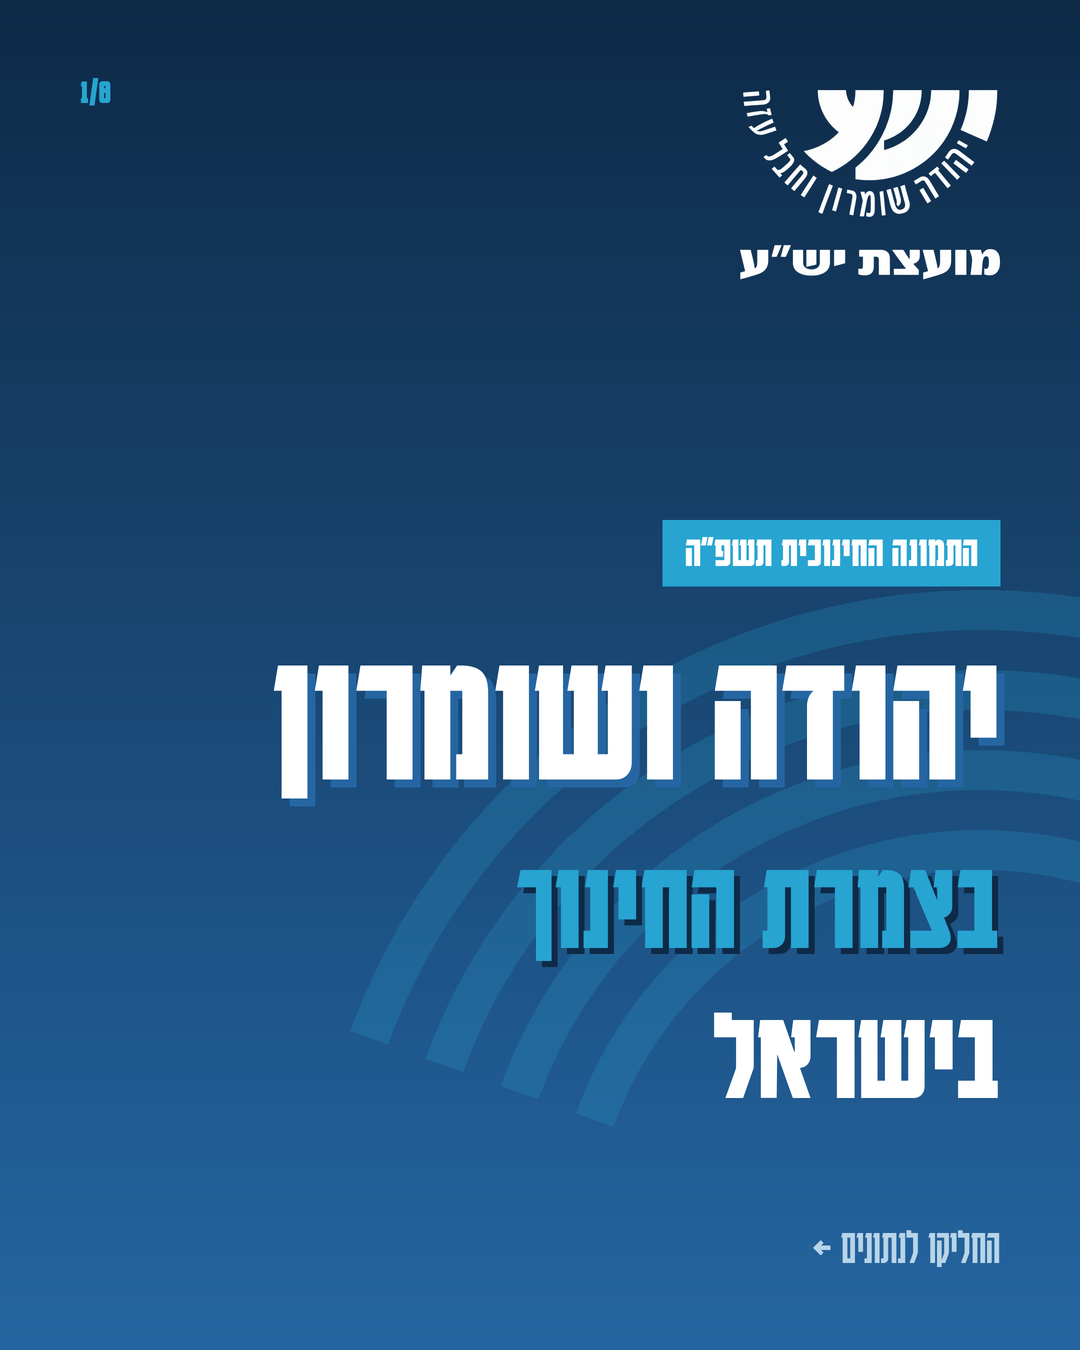
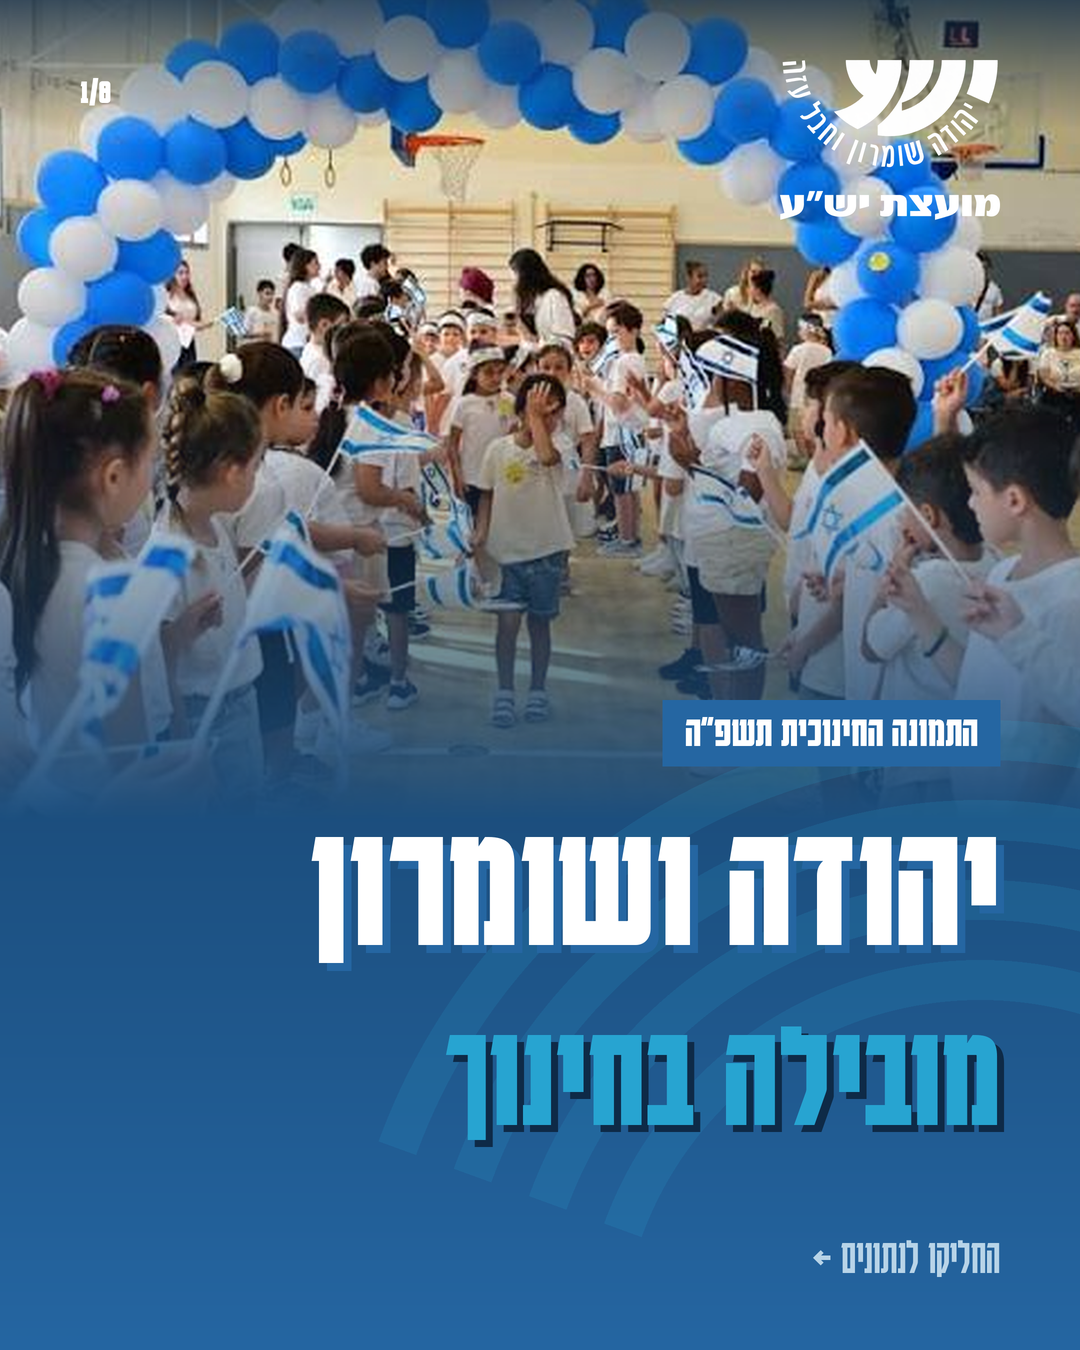
Add photos to Yesha carousel cover, Efrat and Shomron slides
Claude-Session: https://claude.ai/code/session_01RS3QK6pAd3YhyAuXZSJjH1

diff --git a/content-kit/yesha/2026-10-education-carousel-v2/make.py b/content-kit/yesha/2026-10-education-carousel-v2/make.py
@@ -72,14 +72,52 @@ def logo(img, w, x_right, y, plate):
     return h
 
 
-def chrome(img, n, dark, source=None):
+def chrome(img, n, dark, source=None, on_photo=False):
     d = ImageDraw.Draw(img)
-    logo(img, 150 if dark else 170, W - M, 62, plate=dark)
-    text(d, (M, 72), f'{n}/{TOTAL}', 36, LB if dark else MID, anchor='la', rtl=False)
+    logo(img, 150 if (dark or on_photo) else 170, W - M, 62, plate=dark or on_photo)
+    text(d, (M, 72), f'{n}/{TOTAL}', 36, WHITE if on_photo else (LB if dark else MID), anchor='la', rtl=False)
     if source:
         d.rectangle(P(M, H - 104, W - M, H - 102), fill=(0x4A, 0x6E, 0x94) if dark else (0xC9, 0xDB, 0xE8))
         text(d, (W - M, H - 84), source, 30, SOFT if dark else BLUE, bold=False)
     return d
+
+
+UP = '/root/.claude/uploads/1a5819ee-0cc0-5045-b086-4a8a80216453/'
+PHOTO_COVER = UP + '9dadb569-image.jpg'
+PHOTO_EFRAT = UP + '6168c27e-image.jpg'
+PHOTO_SHOMRON = UP + '76ebff00-image.jpg'
+
+
+def bg_at(y):
+    """Colour of the dark slide gradient at height y, so photos fade into it seamlessly."""
+    t = y / H
+    return tuple(int(DEEP[i] + (BLUE[i] - DEEP[i]) * t) for i in range(3))
+
+
+def photo(img, path, h, focus_y, fade_to, fade_from=0.55, caption=None, top_dark=150):
+    """Cover-crop a photo into the top band (W x h) and fade its bottom into the slide colour."""
+    ph = Image.open(path).convert('RGB')
+    sc = max(W * S / ph.width, h * S / ph.height)
+    ph = ph.resize((round(ph.width * sc), round(ph.height * sc)), Image.LANCZOS)
+    top = int(min(max(focus_y * ph.height - h * S / 2, 0), ph.height - h * S))
+    left = (ph.width - W * S) // 2
+    ph = ph.crop((left, top, left + W * S, top + int(h * S)))
+    img.paste(ph, (0, 0))
+    ov = Image.new('RGBA', (W * S, int(h * S)), (0, 0, 0, 0)); od = ImageDraw.Draw(ov)
+    for y in range(int(h * S)):
+        t = y / (h * S)
+        a_top = int(top_dark * max(0, 1 - t / (130 / h)))                       # keeps logo/counter legible
+        a_bot = int(255 * max(0, (t - fade_from) / (1 - fade_from)) ** 1.1)
+        col = bg_at(y / S) if fade_to is None else fade_to
+        if a_top: od.line([(0, y), (W * S, y)], fill=DEEP + (a_top,))
+        if a_bot: od.line([(0, y), (W * S, y)], fill=col + (a_bot,))
+    img.paste(ov, (0, 0), ov)
+    if caption:
+        d = ImageDraw.Draw(img)
+        w = tw(d, caption, 34)
+        y = h * fade_from - 20
+        d.rounded_rectangle(P(W - M - w - 36, y, W - M, y + 54), radius=27 * S, fill=NAVY)
+        text(d, (W - M - 18, y + 9), caption, 34, WHITE)
 
 
 def tag(d, y, s, size=42, bg=BLUE):
@@ -123,16 +161,17 @@ def save(img, n):
 
 # 1 — cover
 def s1():
-    img = canvas(True); arcs(img, 980, 1260, alpha=55, n=4, r0=430, step=80, width=40)
+    img = canvas(True)
+    photo(img, PHOTO_COVER, 820, 0.5, None, fade_from=0.42, top_dark=200)
+    arcs(img, 980, 1360, alpha=40, n=4, r0=400, step=80, width=40)  # drawn over the fade, no seam
     d = ImageDraw.Draw(img)
-    logo(img, 260, W - M, 90, plate=True)
-    text(d, (M, 72), f'1/{TOTAL}', 36, LB, anchor='la', rtl=False)
-    y = 520
-    h = tag(d, y, 'התמונה החינוכית תשפ״ה', 44, bg=LB)
-    text(d, (W - M, y + h + 30), 'יהודה ושומרון', 190, WHITE, shadow=(8, 8, BLUE))
-    text(d, (W - M, y + h + 250), 'בצמרת החינוך', 130, LB, shadow=(6, 6, DEEP))
-    text(d, (W - M, y + h + 400), 'בישראל', 130, WHITE)
-    text(d, (W - M, H - 130), 'החליקו לנתונים ←', 50, SOFT, bold=False)
+    logo(img, 220, W - M, 60, plate=True)
+    text(d, (M, 72), f'1/{TOTAL}', 36, WHITE, anchor='la', rtl=False)
+    y = 700
+    h = tag(d, y, 'התמונה החינוכית תשפ״ה', 44, bg=BLUE)
+    text(d, (W - M, y + h + 24), 'יהודה ושומרון', 180, WHITE, shadow=(8, 8, BLUE))
+    text(d, (W - M, y + h + 230), 'מובילה בחינוך', 150, LB, shadow=(7, 7, DEEP))
+    text(d, (W - M, H - 120), 'החליקו לנתונים ←', 50, SOFT, bold=False)
     save(img, 1)
 
 
@@ -162,19 +201,21 @@ def s3():
 
 # 4 — 5 units math & English
 def s4():
-    img = canvas(False); d = chrome(img, 4, False, SRC_EDU)
-    tag(d, 250, '5 יחידות לימוד', 42)
-    text(d, (W - M, 335), 'מובילים ב־5 יחידות', 104, NAVY)
+    img = canvas(False)
+    photo(img, PHOTO_EFRAT, 440, 0.0, ICE, fade_from=0.74, caption='אפרת', top_dark=170)
+    d = chrome(img, 4, False, SRC_EDU, on_photo=True)
+    tag(d, 428, '5 יחידות לימוד', 40)
+    text(d, (W - M, 488), 'מובילים ב־5 יחידות', 92, NAVY)
 
     def section(y, title):
-        text(d, (W - M, y), title, 60, BLUE)
-        d.rectangle(P(M, y + 40, W - M - tw(d, title, 60) - 24, y + 43), fill=(0xB5, 0xCF, 0xE3))
+        text(d, (W - M, y), title, 56, BLUE)
+        d.rectangle(P(M, y + 38, W - M - tw(d, title, 56) - 24, y + 41), fill=(0xB5, 0xCF, 0xE3))
 
-    section(480, 'מתמטיקה')
-    bar_row(d, 570, 'אלקנה', 35.8, 6, strong=True)
-    bar_row(d, 750, 'אפרת', 32.5, 12)
-    section(950, 'אנגלית')
-    bar_row(d, 1040, 'אלקנה', 82.1, 8, strong=True)
+    section(605, 'מתמטיקה')
+    bar_row(d, 675, 'אלקנה', 35.8, 6, strong=True)
+    bar_row(d, 830, 'אפרת', 32.5, 12)
+    section(990, 'אנגלית')
+    bar_row(d, 1062, 'אלקנה', 82.1, 8, strong=True)
     save(img, 4)
 
 
@@ -236,30 +277,30 @@ def s7():
 # 8 — national service, women (2022 cohort data)
 def s8():
     img = canvas(True); arcs(img, 120, 1340, n=3, r0=400)
-    d = chrome(img, 7, True, SRC_SERVICE)
-    tag(d, 250, 'שירות לאומי · בנות', 42, bg=LB)
-    text(d, (W - M, 330), 'שלושת המקומות', 100, WHITE)
-    text(d, (W - M, 430), 'הראשונים בארץ', 100, LB, shadow=(6, 6, DEEP))
-    text(d, (W - M, 545), 'שירות לאומי / אזרחי — נשים | נתוני תשפ״ב', 42, SOFT, bold=False)
+    photo(img, PHOTO_SHOMRON, 430, 0.0, None, fade_from=0.62, caption='שומרון', top_dark=180)
+    d = chrome(img, 7, True, SRC_SERVICE, on_photo=True)
+    tag(d, 425, 'שירות לאומי · בנות', 40, bg=LB)
+    text(d, (W - M, 490), 'שלושת המקומות הראשונים בארץ', 84, WHITE)
+    text(d, (W - M, 592), 'שירות לאומי / אזרחי — נשים | נתוני תשפ״ב', 40, SOFT, bold=False)
     rows = [('שומרון', 88.7, 1), ('בית אל', 87.6, 2), ('קריית ארבע', 85.1, 3)]
     for i, (nm, pct, rk) in enumerate(rows):
-        y = 625 + i * 140
-        text(d, (W - M, y), f'מקום {rk}', 40, LB)
-        text(d, (W - M - 130, y - 12), nm, 60, WHITE)
-        text(d, (M, y - 10), f'{pct:.1f}%', 60, WHITE, anchor='la', rtl=False)
-        by = y + 72; full = W - 2 * M
-        d.rounded_rectangle(P(M, by, W - M, by + 20), radius=10 * S, fill=(0x2E, 0x55, 0x80))
-        d.rounded_rectangle(P(W - M - full * pct / 100, by, W - M, by + 20), radius=10 * S, fill=LB)
+        y = 670 + i * 112
+        text(d, (W - M, y + 8), f'מקום {rk}', 40, LB)
+        text(d, (W - M - 130, y - 4), nm, 56, WHITE)
+        text(d, (M, y - 2), f'{pct:.1f}%', 56, WHITE, anchor='la', rtl=False)
+        by = y + 66; full = W - 2 * M
+        d.rounded_rectangle(P(M, by, W - M, by + 18), radius=9 * S, fill=(0x2E, 0x55, 0x80))
+        d.rounded_rectangle(P(W - M - full * pct / 100, by, W - M, by + 18), radius=9 * S, fill=LB)
     # also in the top 20
-    y = 1035
-    d.rounded_rectangle(P(M, y, W - M, y + 200), radius=22 * S, fill=(0x1E, 0x4A, 0x75))
+    y = 1015
+    d.rounded_rectangle(P(M, y, W - M, y + 205), radius=22 * S, fill=(0x1E, 0x4A, 0x75))
     text(d, (W - M - 30, y + 18), 'גם בין 20 המובילות:', 40, LB)
     others = [('ערבות הירדן', 74.5, 6), ('קדומים', 73.3, 7), ('מטה בנימין', 63.8, 15)]
     colw = (W - 2 * M - 60) / 3
     for i, (nm, pct, rk) in enumerate(others):
         xr = W - M - 30 - i * colw
-        text(d, (xr, y + 74), nm, 46, WHITE)
-        text(d, (xr, y + 132), f'{pct:.1f}% | מקום {rk}', 40, SOFT, bold=False)
+        text(d, (xr, y + 76), nm, 46, WHITE)
+        text(d, (xr, y + 136), f'{pct:.1f}% | מקום {rk}', 40, SOFT, bold=False)
     save(img, 7)
 
 
